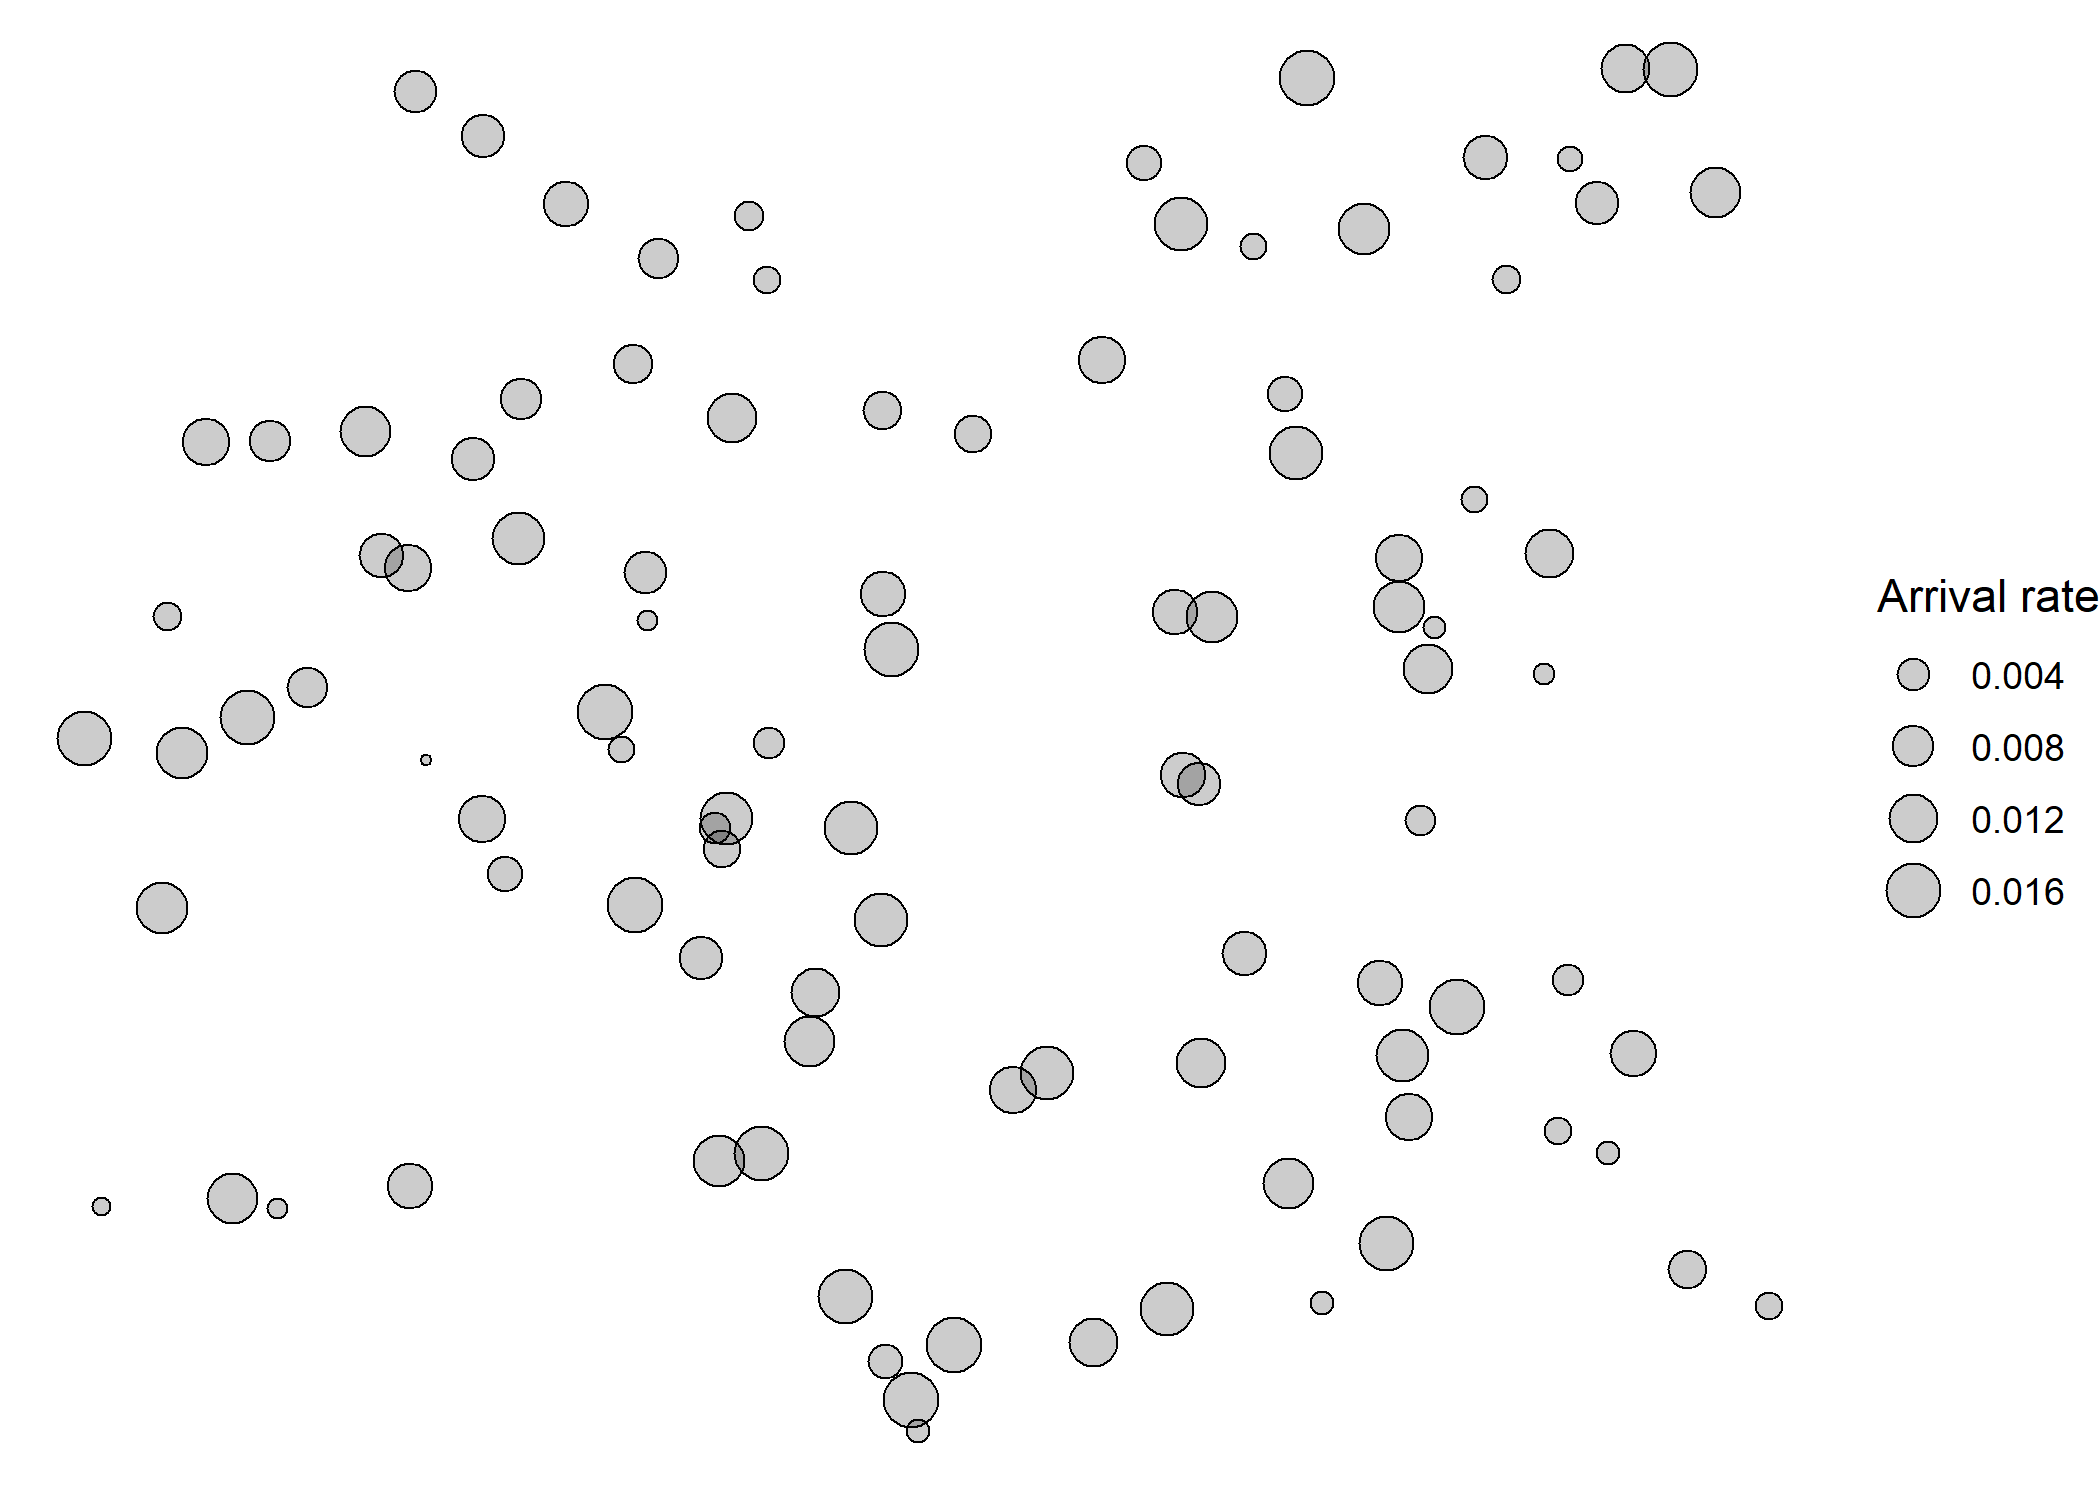
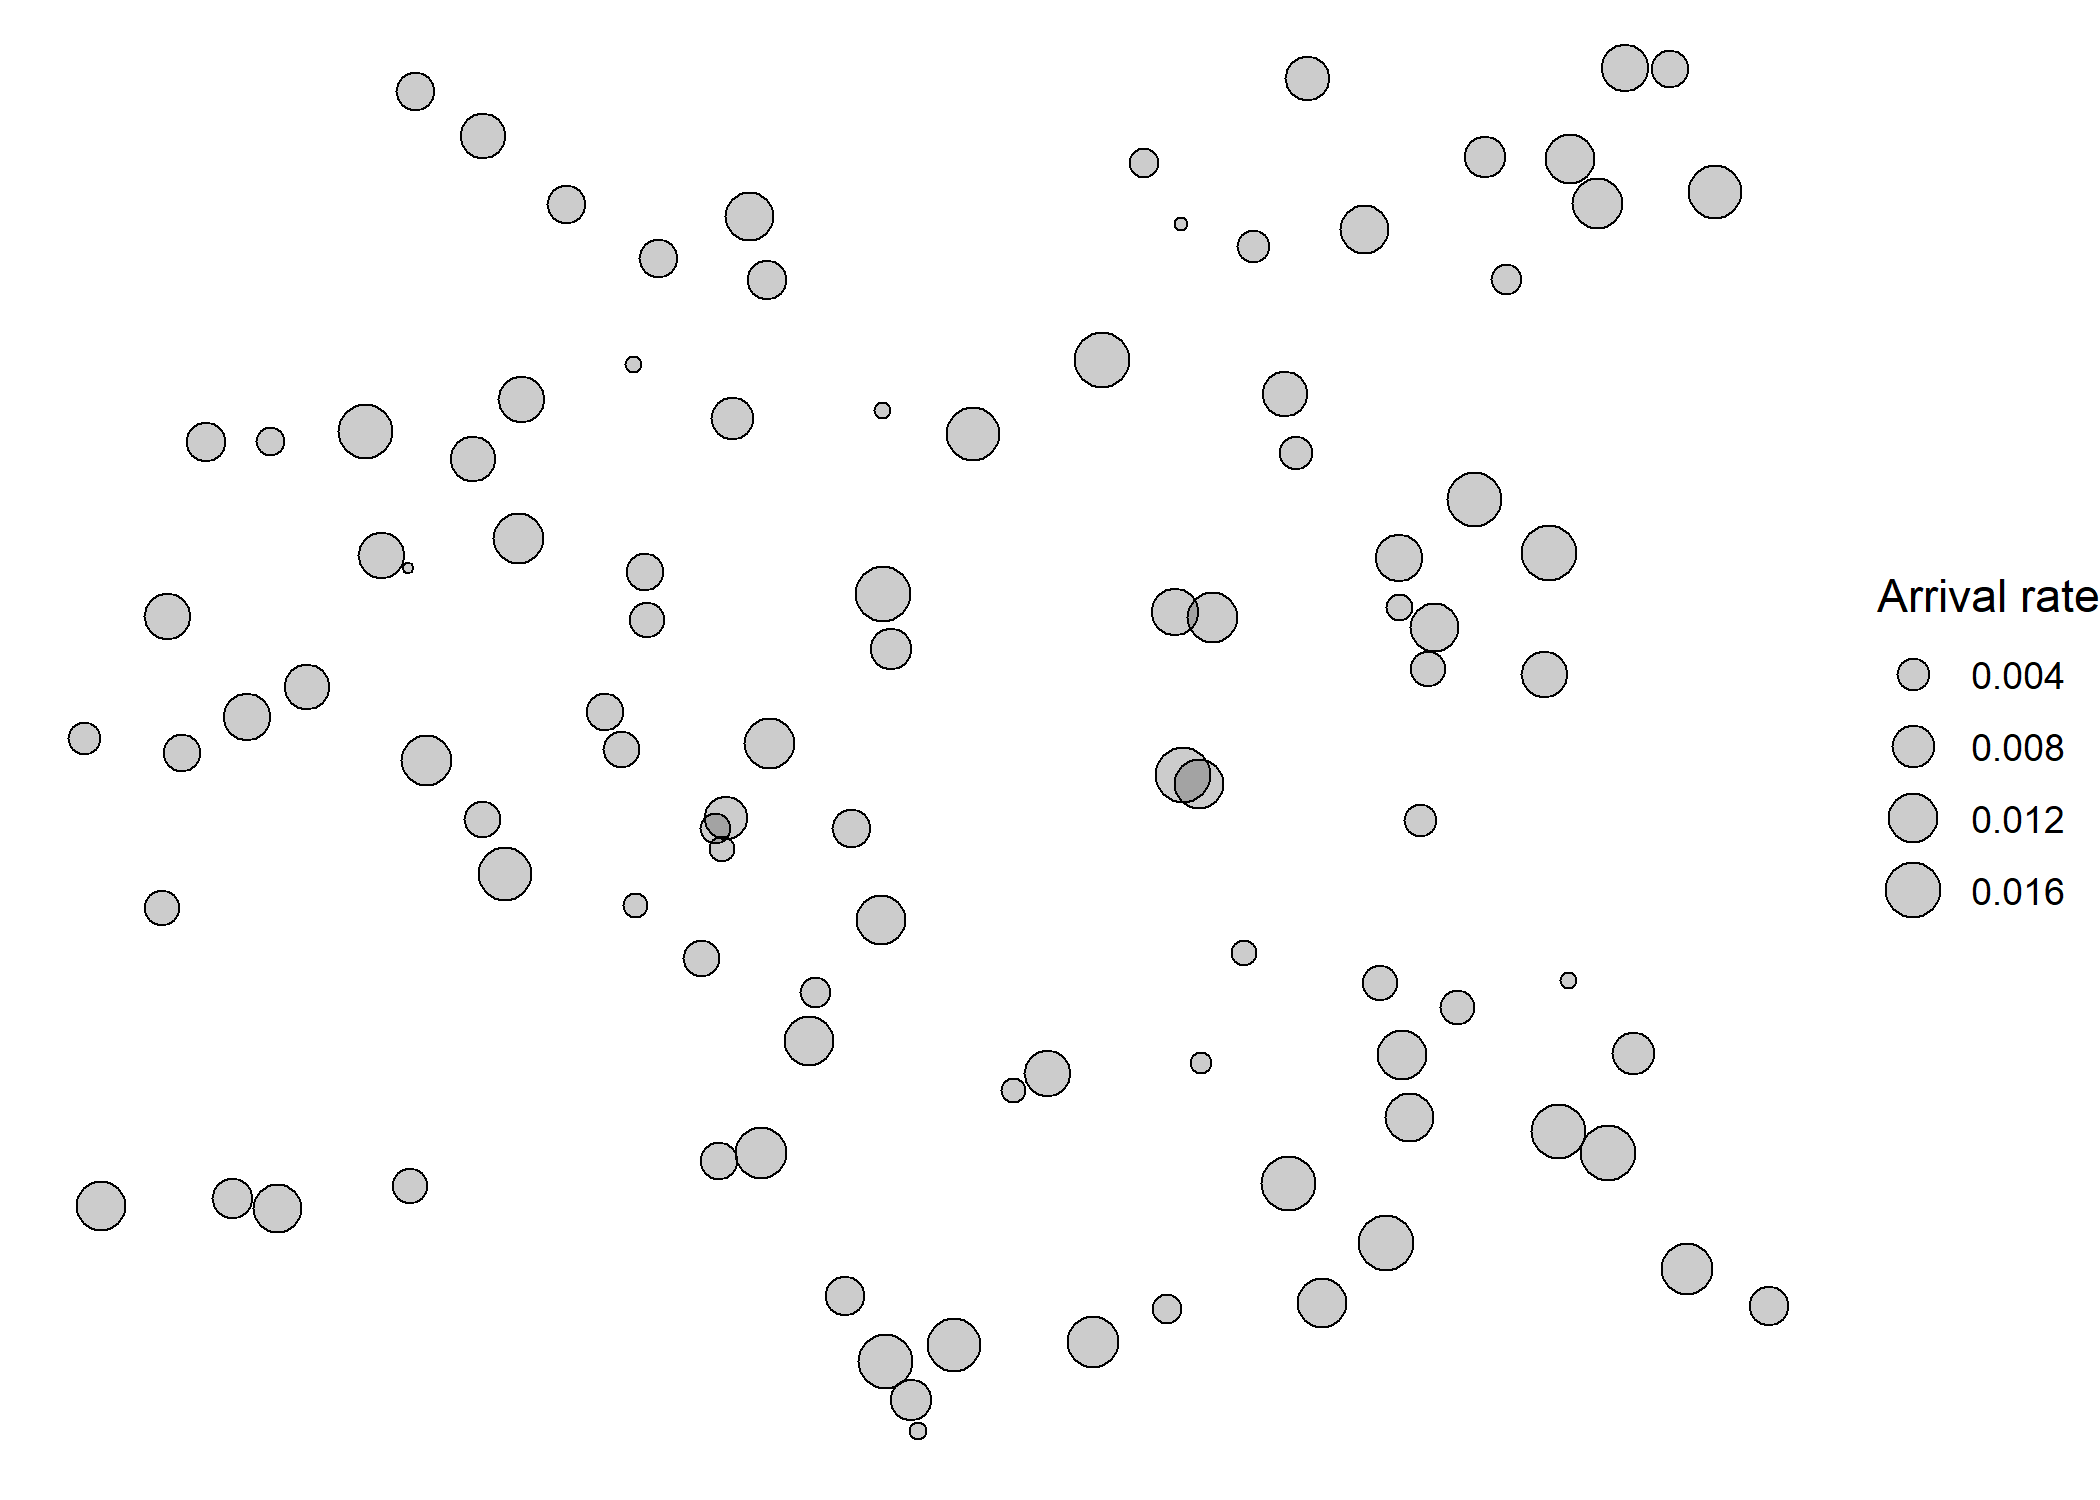
update README

diff --git a/README.md b/README.md
@@ -244,8 +244,55 @@ numbers for zoned and free-flight: no constraint.
 
 To see how the methods presented apply to real data we include the
 following section. From the R package `maxcovr` we found the York crime
-data set. We have sampled demand points from this data set, to mimic the
-original distribution, and made solutions and simulations.
+data set. The distribution of points from the data set looks as follows.
+
+<img src="man/figures/README-unnamed-chunk-12-1.png" width="100%" />
+
+We have sampled demand points from this data set, to mimic the original
+distribution, and made solutions and simulations. The sample with
+assigned arrival rates is displayed in the following figure.
+
+``` r
+# Read precalculated york solutions
+clean_york <- function(york_solution) {
+  if (grepl("GA", york_solution)) {
+    solution <- readRDS(york_solution)
+
+    solution$no_of_centers <- nrow(solution$centroids)
+
+    solution$clusters <- solution$centroids %>%
+      dplyr::mutate(`Cluster id` = dplyr::row_number())
+
+    solution$instance <- solution$instance %>%
+      dplyr::inner_join(solution$clusters %>% dplyr::select(-x,-y), by = "Centroid id") %>%
+      dplyr::select(-`Centroid id`) %>%
+      dplyr::mutate(`Centroid id` = as.character(`Cluster id`)) %>%
+      dplyr::select(-`Cluster id`)
+
+    return(solution)
+  } else {
+    return(readRDS(york_solution))
+  }
+}
+
+york_solutions <- lapply(
+  list.files("inst/extdata/york", full.names = T) %>% as.list(),
+  clean_york
+)
+
+ggplot2::ggplot(york_solutions[[1]]$instance) +
+  ggplot2::geom_point(ggplot2::aes(x,y, size = `Arrival rate`),
+                      shape = 21, fill = ggplot2::alpha("black", .2)) +
+  ggplot2::theme_void() + coord_fixed()
+```
+
+<img src="man/figures/README-unnamed-chunk-13-1.png" width="100%" />
+
+``` r
+ggsave("york_sample_with_arrival_rate.pdf", width = 8, height = 3)
+```
+
+We obtain metadata in the following way.
 
 ``` r
 # The results from the york data set are available here
@@ -255,19 +302,19 @@ york <- readRDS(system.file("extdata", "york_simulation_metadata.rds", package =
 When comparing the solution we can see that `wkm-swkm` achieve a lower
 TOT objective as compared to `ga-tot`.
 
-<img src="man/figures/README-unnamed-chunk-13-1.png" width="100%" />
+<img src="man/figures/README-unnamed-chunk-15-1.png" width="100%" />
 
 Comparing now utilization of UAVs in the simulations we see that with
 low number of UAVs, low arrival rate variance and FCFS queue strategy we
 have higher utilization with `ga-tot` as compared to `wkm-swkm`.
 
-<img src="man/figures/README-unnamed-chunk-14-1.png" width="100%" />
+<img src="man/figures/README-unnamed-chunk-16-1.png" width="100%" />
 
 We believe this could be due to `ga-tot` having to base locations
 sharing the dense part of the service area, where as `wkm-swkm` only
 have one base location covering the dense part of the area.
 
-<img src="man/figures/README-unnamed-chunk-15-1.png" width="100%" />
+<img src="man/figures/README-unnamed-chunk-17-1.png" width="100%" />
 
 To see how this affect the mean response for the zoned approach with no
 queue we can take a look at the following figure.
@@ -298,7 +345,7 @@ method, queue strategy and arrival rate variance. We restrict to only
 looking at high number of UAVs, the same pattern is true for low number
 of UAVs but exaggerated in case of the FCFS queue.
 
-<img src="man/figures/README-unnamed-chunk-16-1.png" width="100%" />
+<img src="man/figures/README-unnamed-chunk-18-1.png" width="100%" />
 
 In the case of having no queue, we see the same kind of pattern as from
 the uniformly generated instances, here the zoned approach can achieve
@@ -319,11 +366,11 @@ all situation are able to serve all demand, leaving no demand in queue
 at the end of the simulation, where as for the `wkm-swkm` solution
 method leaves demand in queue for all other flight configurations.
 
-<img src="man/figures/README-unnamed-chunk-17-1.png" width="100%" />
+<img src="man/figures/README-unnamed-chunk-19-1.png" width="100%" />
 
 Lastly we can look at the Ploss for the no queue strategy.
 
-<img src="man/figures/README-unnamed-chunk-18-1.png" width="100%" />
+<img src="man/figures/README-unnamed-chunk-20-1.png" width="100%" />
 
 This also shows that the only flight configuration that is able to serve
 all demand is the free-flight: no constraint.
